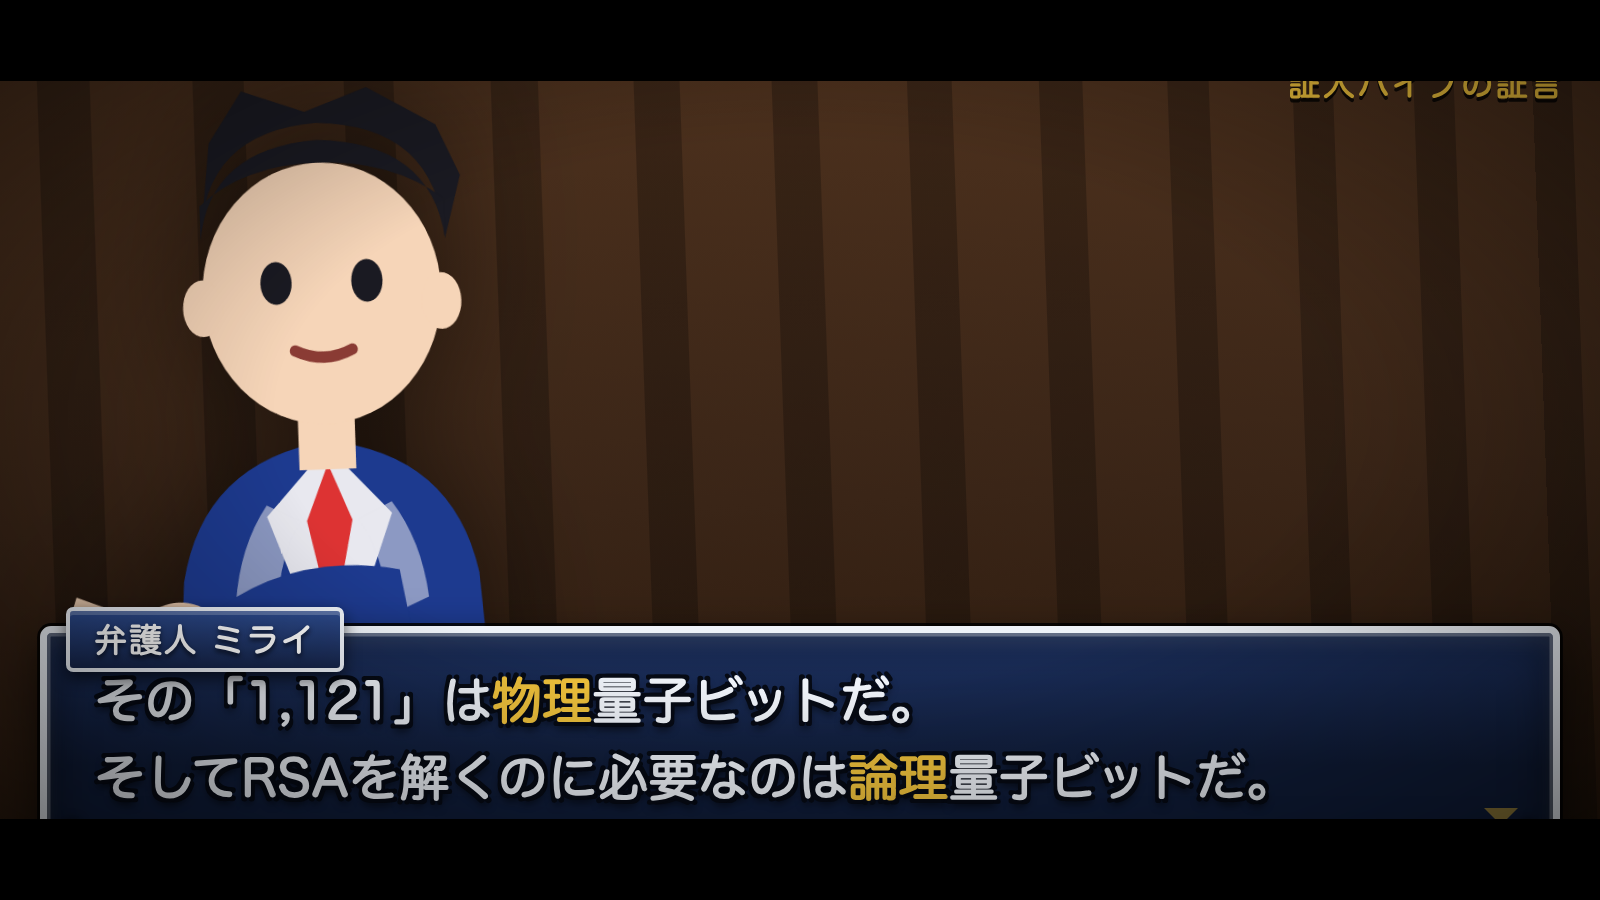
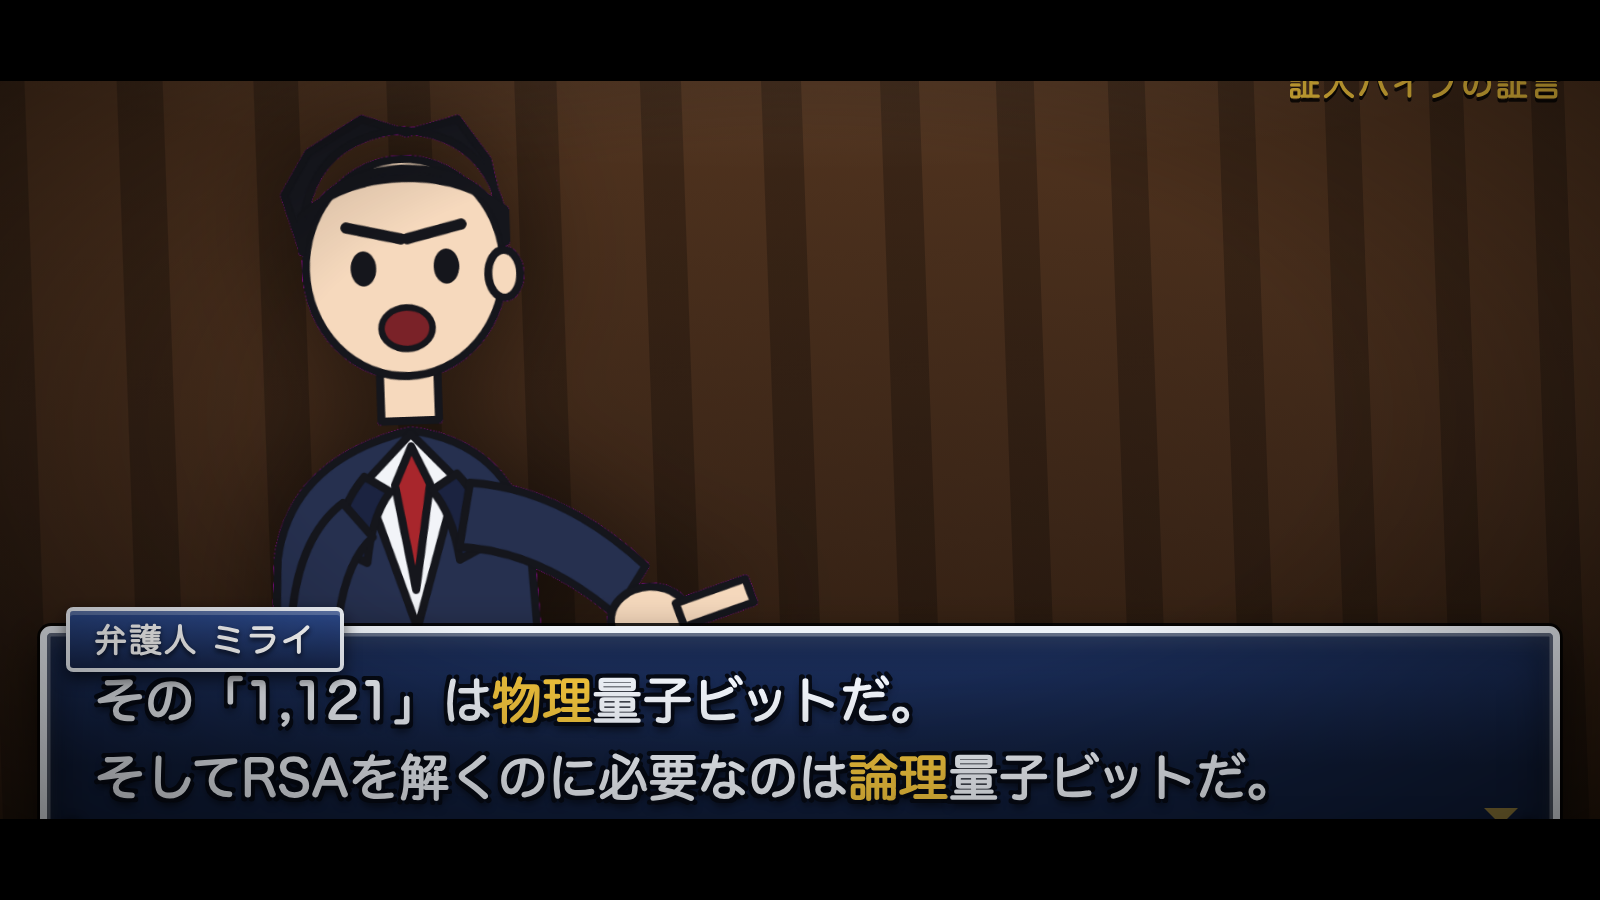
生成した絵が実際に画面へ入るようにした（取り込みツール＋パス解決）
絵のプロンプトを整えただけで、絵が画面に入っていなかった。原因は2つ。

1. ケースJSON内の相対パスを「ページ基準」で解決していた。
   player/index.html から読むと player/assets/... を探して 404 になり、
   黙って生成SVGに落ちていた。ケースファイルの位置を基準に解決するよう修正。
   パスは "../assets/..." と書く（ケースは cases/ にあるため）。

2. 画像は役に1枚（cast.img）しか差せず、ポーズ単位で入れられなかった。
   poses[pose] を先に見るようにして、point.png が1枚あるだけで効くようにした。
   読み込みに失敗したら生成SVGへ落ちる（当日に壊れた画像を出さない）。

tools/art-import.mjs（新規）
  npm run art -- <画像> <スロット> <ポーズ>
  生成画像のマゼンタ背景を抜き、透明な余白を切り詰めて assets/chars/<slot>/ に置き、
  ケースJSONに書く行を出力する。プレビュー.app を手で開く工程を消すため。
  画像処理は headless Chrome の canvas でやるので依存は増えていない。

あわせて実素材に合わせて画角を調整。oy(寄りの支点)と倍率が立ち絵向けに強すぎて、
頭が画面外に出ていた。立ち位置も 26%/74% → 33%/67% に寄せた。

diff --git a/engine/engine.js b/engine/engine.js
@@ -69,9 +69,19 @@
     (this.meta.startEvidence || []).forEach(function (id) { this.owned[id] = true; }, this);
     if (this.meta.allEvidenceFromStart) this.evidence.forEach(function (e) { this.owned[e.id] = true; }, this);
 
+    this.base = data.__base || null;
+
     this.build();
     this.bind();
   }
+
+  /* 画像のパスは「ケースJSONの置き場所」からの相対で書く。
+     ページ基準で解決すると player/ の下を探して 404 になる（実際にやった）。 */
+  Player.prototype.asset = function (p) {
+    if (!p || !this.base) return p;
+    if (/^(data:|blob:|https?:|\/)/.test(p)) return p;
+    try { return new URL(p, this.base).href; } catch (e) { return p; }
+  };
 
   /* ---------------------------------------------------------------- DOM -- */
   Player.prototype.build = function () {
@@ -275,7 +285,7 @@
     if (angle) this._bgAngle = angle;
     this.el.bg.dataset.bg = name;
     var bgs = this.meta.backgrounds || {};
-    var src = bgs[name + '@' + (angle || this._bgAngle || '')] || bgs[name];
+    var src = this.asset(bgs[name + '@' + (angle || this._bgAngle || '')] || bgs[name]);
     if (src) {
       this.el.bg.style.backgroundImage = 'url("' + src + '")';
       on(this.el.bg, 'img', true);
@@ -299,15 +309,25 @@
     if (!whoId) return;
     var def = this.cast[whoId]; if (!def) return;
     var wrap = h('div', 'actor ' + (side || def.side || 'center'));
-    if (def.img) {
-      /* poses は "path" でも {src, flip} でも書ける。
-         生成した絵が相手と逆を向いているときは flip:true で左右反転する。
-         向きのためだけに描き直すのは無駄なので。 */
-      var src = def.img, flip = !!def.flip;
-      var pv = def.poses && def.poses[pose];
-      if (typeof pv === 'string') src = pv;
-      else if (pv && pv.src) { src = pv.src; if (pv.flip != null) flip = !!pv.flip; }
-      var im = new Image(); im.src = src; im.alt = def.name || whoId;
+
+    /* 絵の解決順: そのポーズ専用の絵 → 役の既定の絵 → 生成SVG。
+       ポーズ単位で差し替わるので、point.png が1枚あるだけでも効きます。
+       読み込みに失敗したら黙って生成SVGへ落とす（当日に壊れた画像を出さない）。 */
+    var pv = def.poses && def.poses[pose];
+    var src = null, flip = !!def.flip;
+    if (typeof pv === 'string') src = pv;
+    else if (pv && pv.src) { src = pv.src; if (pv.flip != null) flip = !!pv.flip; }
+    else if (def.img) src = def.img;
+    src = this.asset(src);
+
+    if (src) {
+      var im = new Image();
+      im.alt = def.name || whoId;
+      im.onerror = function () {
+        wrap.innerHTML = G.art.portrait(def, pose || 'normal');
+        wrap.classList.remove('flip');
+      };
+      im.src = src;
       if (flip) wrap.classList.add('flip');
       wrap.appendChild(im);
     } else {
@@ -554,7 +574,7 @@
     var s = this.el.slide, html = '';
     if (sc.title) html += '<h2>' + (sc.kicker ? '<small>' + sc.kicker + '</small>' : '') + sc.title + '</h2>';
     if (sc.big)   html += '<div class="big">' + sc.big + '</div>';
-    if (sc.image) html += '<figure><img src="' + sc.image.src + '" alt="">' +
+    if (sc.image) html += '<figure><img src="' + this.asset(sc.image.src) + '" alt="">' +
                           (sc.image.caption ? '<figcaption>' + sc.image.caption + '</figcaption>' : '') + '</figure>';
     if (sc.bullets && sc.bullets.length) {
       html += '<ul>' + sc.bullets.map(function (b, i) {
@@ -812,7 +832,7 @@
     var r = this.el.record, e = this.r.list[i];
     this.r.i = i;
     r.querySelector('.ev-face').innerHTML =
-      e.img ? '<img src="' + e.img + '" alt="">' : G.art.evidenceIcon(e.icon);
+      e.img ? '<img src="' + this.asset(e.img) + '" alt="">' : G.art.evidenceIcon(e.icon);
     r.querySelector('.ev-info').innerHTML =
       '<div class="no">証拠品 ' + (i + 1) + ' / ' + this.r.list.length + '</div>' +
       '<div class="nm">' + e.name + '</div>' +
@@ -912,7 +932,8 @@
     var qs = new URLSearchParams(location.search);
     var start = qs.has('scene') ? parseInt(qs.get('scene'), 10) : null;
 
-    function run(data) {
+    function run(data, baseUrl) {
+      if (baseUrl) data.__base = new URL(baseUrl, location.href).href;
       var p = new Player(root, data);
       G.player = p;
       if (qs.get('mute') === '1') G.sfx.mute(true);
@@ -934,6 +955,6 @@
     fetch(url).then(function (r) {
       if (!r.ok) throw new Error(r.status + ' ' + r.statusText);
       return r.json();
-    }).then(run).catch(function (err) { fail(String(err)); });
+    }).then(function (d) { run(d, url); }).catch(function (err) { fail(String(err)); });
   };
 })(window.GIF = window.GIF || {});

diff --git a/engine/camera.js b/engine/camera.js
@@ -25,8 +25,8 @@
   var SHOT = {
     wide:    { s: 1.00, y: 0,    oy: 50, dutch: 0,    tiltX: 0 },   // 法廷全景
     mid:     { s: 1.18, y: 2.0,  oy: 56, dutch: 0,    tiltX: 0 },   // 既定。バストアップ
-    close:   { s: 1.34, y: 2.0,  oy: 66, dutch: 0,    tiltX: 0 },   // 寄り。指摘・決め台詞
-    extreme: { s: 1.70, y: 2.0,  oy: 64, dutch: 0,    tiltX: 0 },   // 極寄り。異議あり
+    close:   { s: 1.28, y: 2.0,  oy: 62, dutch: 0,    tiltX: 0 },   // 寄り。指摘・決め台詞
+    extreme: { s: 1.52, y: 2.0,  oy: 60, dutch: 0,    tiltX: 0 },   // 極寄り。異議あり
     low:     { s: 1.26, y: 0,    oy: 78, dutch: 0,    tiltX: 6 },   // 煽り。追い詰める
     high:    { s: 1.10, y: -4.0, oy: 34, dutch: 0,    tiltX: -5 },  // 俯瞰。突き放す
     think:   { s: 1.40, y: 2.0,  oy: 62, dutch: -2.4, tiltX: 0 },   // 検討。わずかに傾ける
@@ -37,10 +37,10 @@
        カメラが詰めすぎるとジェスチャーが画面外に出て、決めが消える。 */
     /* 指差しは「目線の高さ」。絵のほうが角度を持っているので、
        カメラまで煽ると二重にかかって絵と喧嘩する。傾きだけ少し足す。 */
-    point:   { s: 1.30, y: 0,    oy: 76, dutch: -2.0, tiltX: 0 },   // 指差し
-    slam:    { s: 1.36, y: 0,    oy: 82, dutch:  2.5, tiltX: 4 },   // 机を叩く
-    shock:   { s: 1.38, y: 1.0,  oy: 70, dutch:  0,   tiltX: 0 },   // ガーン
-    stare:   { s: 1.22, y: 1.0,  oy: 60, dutch:  0,   tiltX: 0 }    // 睨み合い
+    point:   { s: 1.14, y: 0,    oy: 62, dutch: -2.0, tiltX: 0 },   // 指差し
+    slam:    { s: 1.20, y: 0,    oy: 70, dutch:  2.5, tiltX: 4 },   // 机を叩く
+    shock:   { s: 1.26, y: 1.0,  oy: 62, dutch:  0,   tiltX: 0 },   // ガーン
+    stare:   { s: 1.18, y: 1.0,  oy: 58, dutch:  0,   tiltX: 0 }    // 睨み合い
   };
 
   /* ---- 視点（どの席から見ているか）= 背景のヨー角 -------------------- */

diff --git a/engine/theme.css b/engine/theme.css
@@ -199,7 +199,7 @@ body{
   opacity:0; transition:opacity .18s;
 }
 .actor.show{opacity:1;}
-.actor.left{left:26%;} .actor.right{left:74%;}
+.actor.left{left:33%;} .actor.right{left:67%;}
 .actor img,.actor svg{height:100%; width:auto; display:block;
   filter:drop-shadow(0 0 3cqw rgba(0,0,0,.55));}
 /* 生成した絵が相手と逆を向いているとき。描き直さずに向きだけ変える */

diff --git a/docs/ILLUSTRATION-PROMPTS.md b/docs/ILLUSTRATION-PROMPTS.md
@@ -311,11 +311,11 @@ ASPECT: 16:9, 1920x1080.
 ```jsonc
 "meta": {
   "backgrounds": {
-    "courtroom":             "assets/bg/court-front.png",
-    "courtroom@defense":     "assets/bg/court-left.png",      // 弁護席の側から見たとき
-    "courtroom@prosecution": "assets/bg/court-right.png",     // 検察席の側から見たとき
-    "stand":                 "assets/bg/stand.png",
-    "gallery":               "assets/bg/gallery.png"
+    "courtroom":             "../assets/bg/court-front.png",
+    "courtroom@defense":     "../assets/bg/court-left.png",   // 弁護席の側から見たとき
+    "courtroom@prosecution": "../assets/bg/court-right.png",  // 検察席の側から見たとき
+    "stand":                 "../assets/bg/stand.png",
+    "gallery":               "../assets/bg/gallery.png"
   }
 }
 ```
@@ -340,6 +340,22 @@ bar chart visible on the top page>
 
 ## 6. 置き場所と、ケースJSONへの書き方
 
+### 取り込みは1コマンド
+
+生成した絵はマゼンタ背景のままで構いません。**背景の除去と余白の切り詰めは自動です。**
+
+```bash
+npm run art -- ~/Downloads/point.png a point
+#            ↑生成した画像      ↑スロット ↑ポーズ
+```
+
+`assets/chars/a/point.png` に置かれ、ケースJSONに書く行がそのまま出力されます。
+もともと透過している絵は `--keep-bg`、抜け残るときは `--tol=120` を足します。
+
+> **パスは「ケースJSONから見た相対」で書きます。** ケースは `cases/` にあるので、
+> リポジトリ直下の `assets/` へは `../assets/...` です。
+> ページ基準で書くと `player/` の下を探して 404 になります。
+
 ```
 assets/
   chars/
@@ -354,22 +370,25 @@ assets/
   "hero": {
     "name": "弁護人 ミライ",
     "side": "left",
-    "img": "assets/chars/a/normal.png",       // 既定の絵
+    "img": "../assets/chars/a/normal.png",    // 既定の絵（無くてもよい）
     "poses": {                                 // ポーズごとの差し替え
-      "talk":      "assets/chars/a/talk.png",
-      "confident": "assets/chars/a/confident.png",
-      "shock":     "assets/chars/a/shock.png",
+      "talk":      "../assets/chars/a/talk.png",
+      "confident": "../assets/chars/a/confident.png",
+      "shock":     "../assets/chars/a/shock.png",
       // 絵が相手と逆を向いているときは反転できる。描き直さなくていい
-      "point":     { "src": "assets/chars/a/point.png", "flip": true }
+      "point":     { "src": "../assets/chars/a/point.png", "flip": true }
     }
   }
 },
 "evidence": [
-  { "id":"ev-1", "name":"…", "img":"assets/ev/chart.png" }
+  { "id":"ev-1", "name":"…", "img":"../assets/ev/chart.png" }
 ]
 ```
 
-**無いポーズは `img` の絵に落ちます。** 落ちていることは `npm run check` が警告します。
+**絵が1枚でも効きます。** 用意したポーズだけ差し替わり、残りは生成SVGのままです。
+読み込みに失敗した絵も黙って生成SVGに落ちるので、当日に壊れた画像が出ることはありません。
+
+**無いポーズは `img` の絵、それも無ければ生成SVGに落ちます。** 落ちていることは `npm run check` が警告します。
 `npm run build` を通すと、画像は data URI として1枚HTMLに焼き込まれます。
 
 ---

diff --git a/docs/FORMAT.md b/docs/FORMAT.md
@@ -40,8 +40,11 @@
   "name": "弁護人 ミライ",     // 名前プレートに出る文字
   "art":  "hero",              // 立ち絵のプリセット
   "side": "left",              // left / center / right
-  "img":  "assets/mirai.png",  // 画像を使うならこれ（art より優先）
-  "poses": { "confident": "assets/mirai-confident.png" },
+  "img":  "../assets/mirai.png",  // 画像（art より優先。無くてもよい）
+  "poses": {                       // ポーズ単位で差し替え。1枚からでも効く
+    "confident": "../assets/mirai-confident.png",
+    "point": { "src": "../assets/mirai-point.png", "flip": true }  // 左右反転
+  },
   "outfit": "#1d3a8f", "hairColor": "#1a1a22",
   "tie": "#d33", "skin": "#f6d5b8", "hair": "spike"
 }
@@ -119,6 +122,11 @@
 
 > **絵の角度は、カメラでは作れません。** 指差しの煽りは「そういう角度で描かれた絵」が要ります。
 > 生成プロンプトは [ILLUSTRATION-PROMPTS.md](ILLUSTRATION-PROMPTS.md) に用途ごとに置いてあります。
+
+> **画像のパスは、ケースJSONから見た相対で書きます。** ケースは `cases/` にあるので
+> リポジトリ直下の `assets/` へは `../assets/...`。取り込みは `npm run art -- <画像> <スロット> <ポーズ>`
+> （マゼンタ背景の除去と余白の切り詰めまで自動）。詳しくは
+> [ILLUSTRATION-PROMPTS.md](ILLUSTRATION-PROMPTS.md)。
 
 ## lines（セリフの並び）— 共通
 
